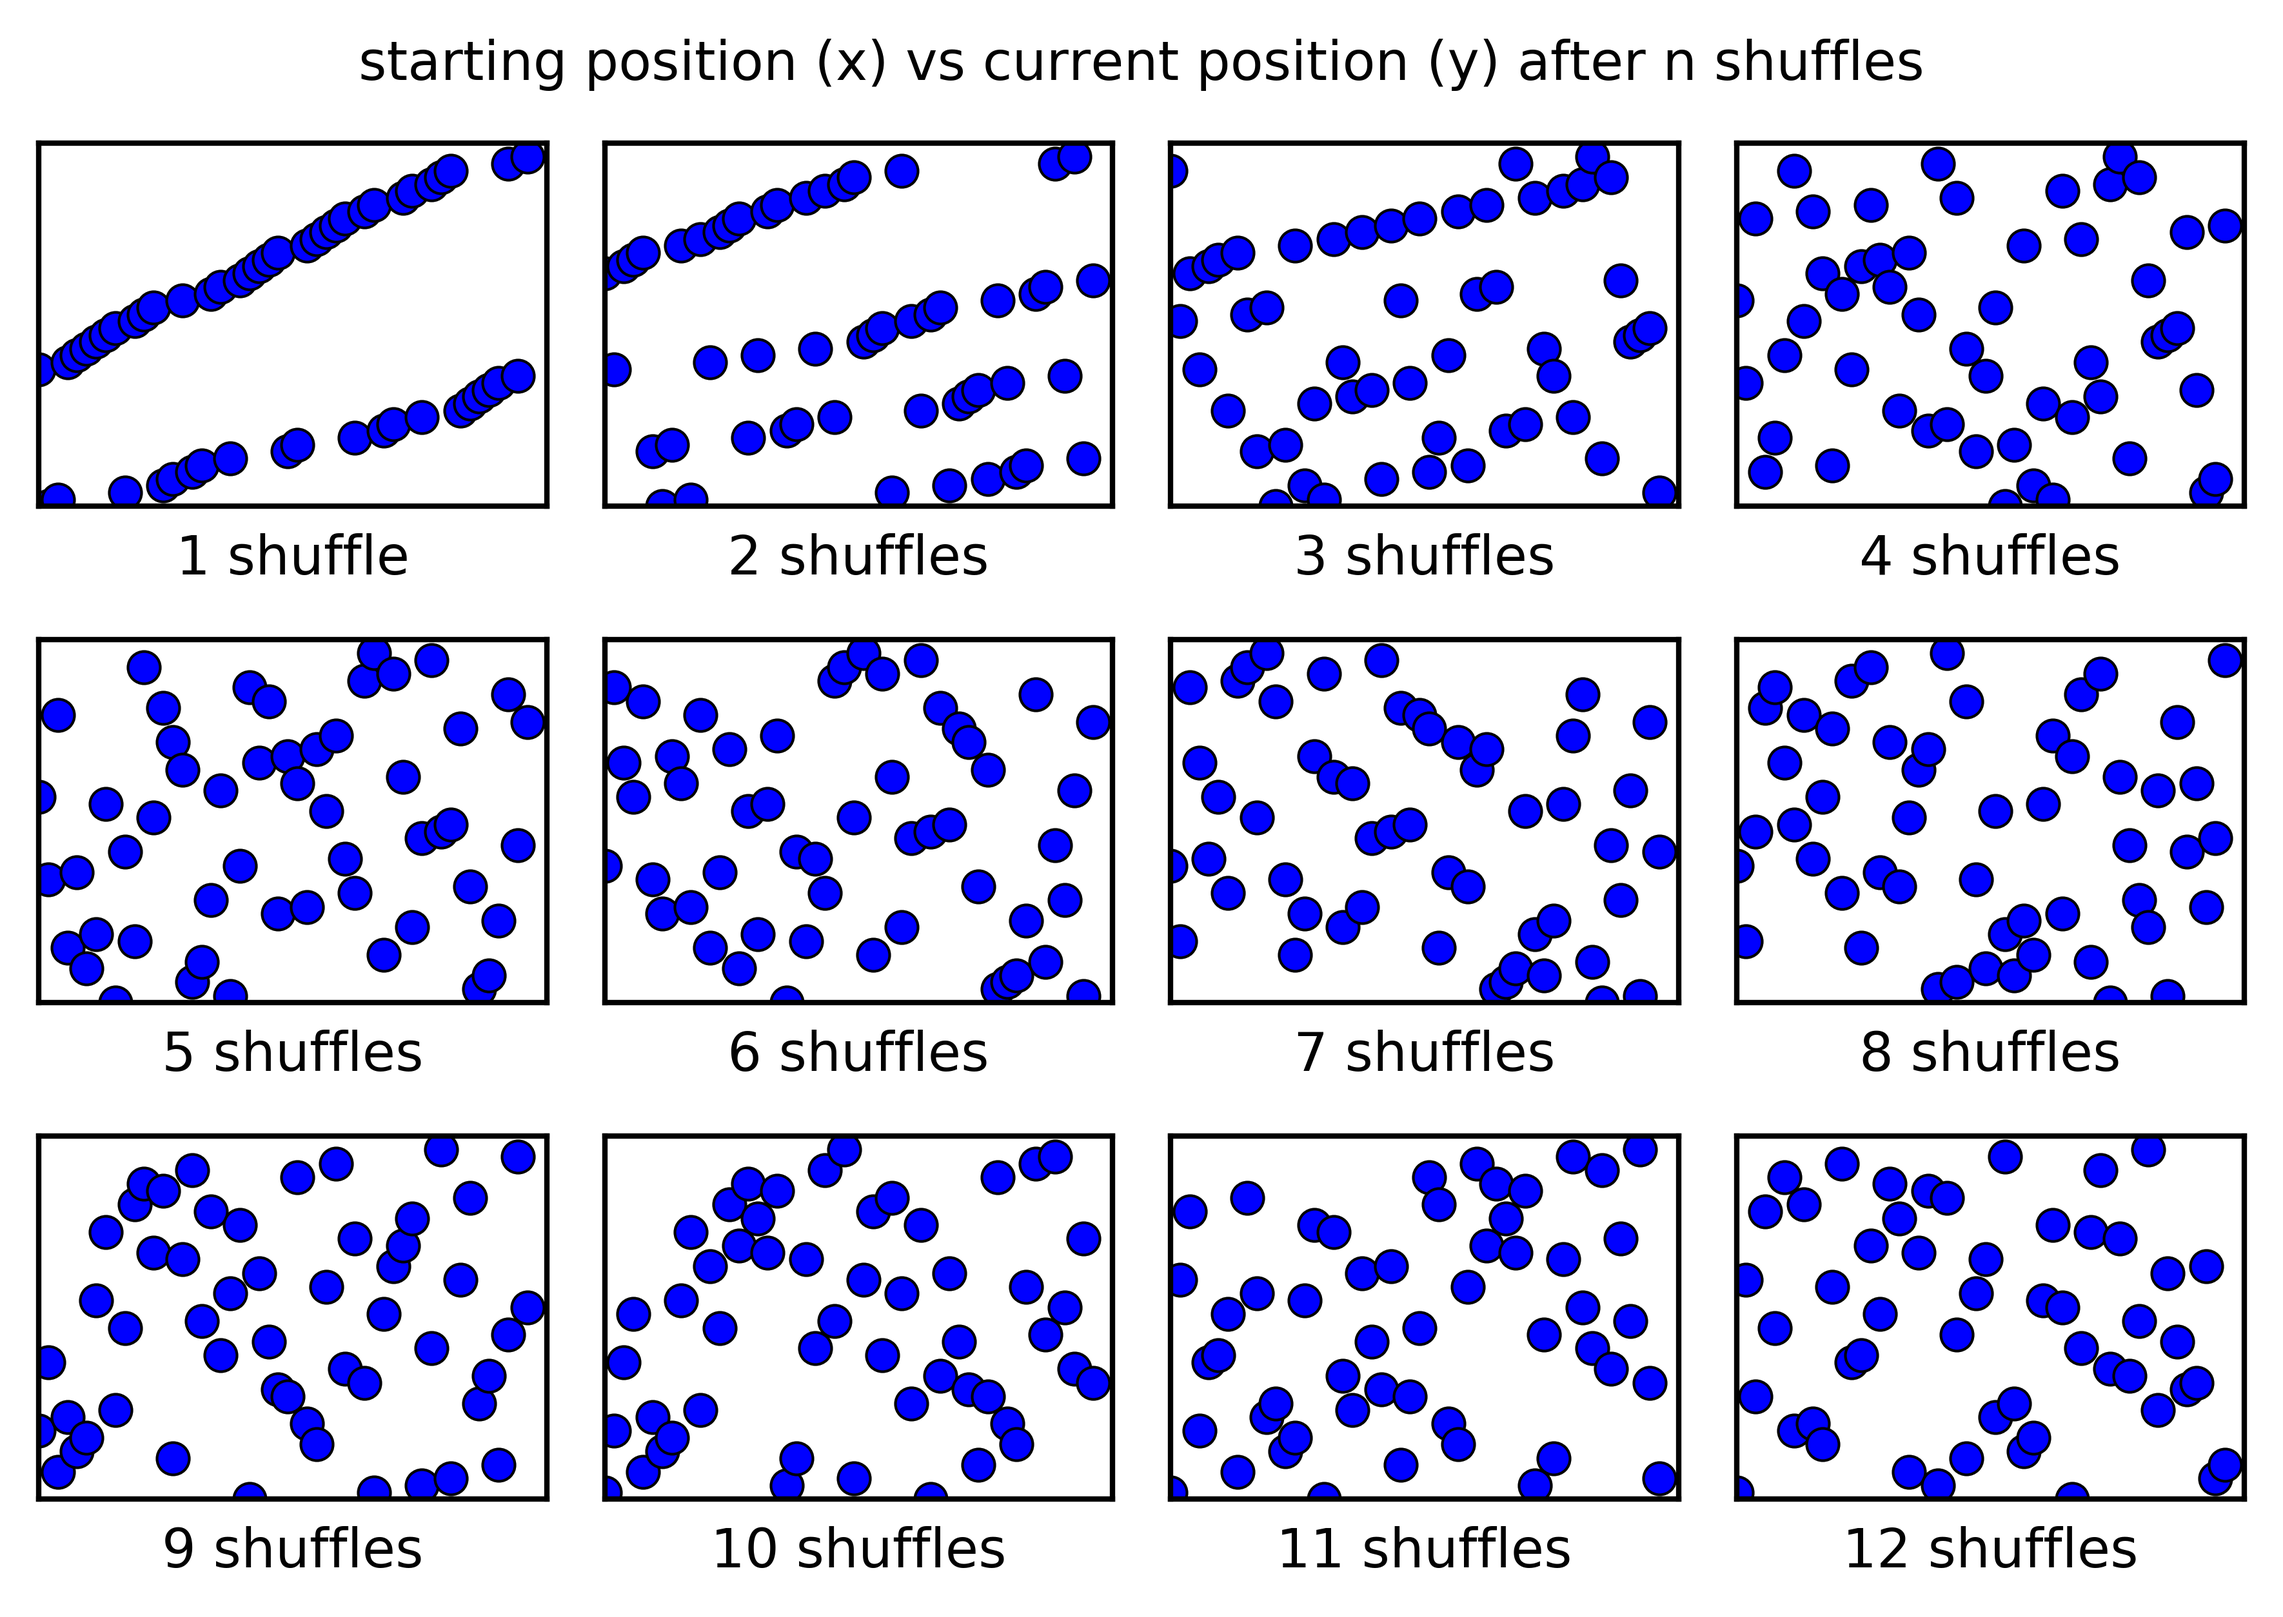
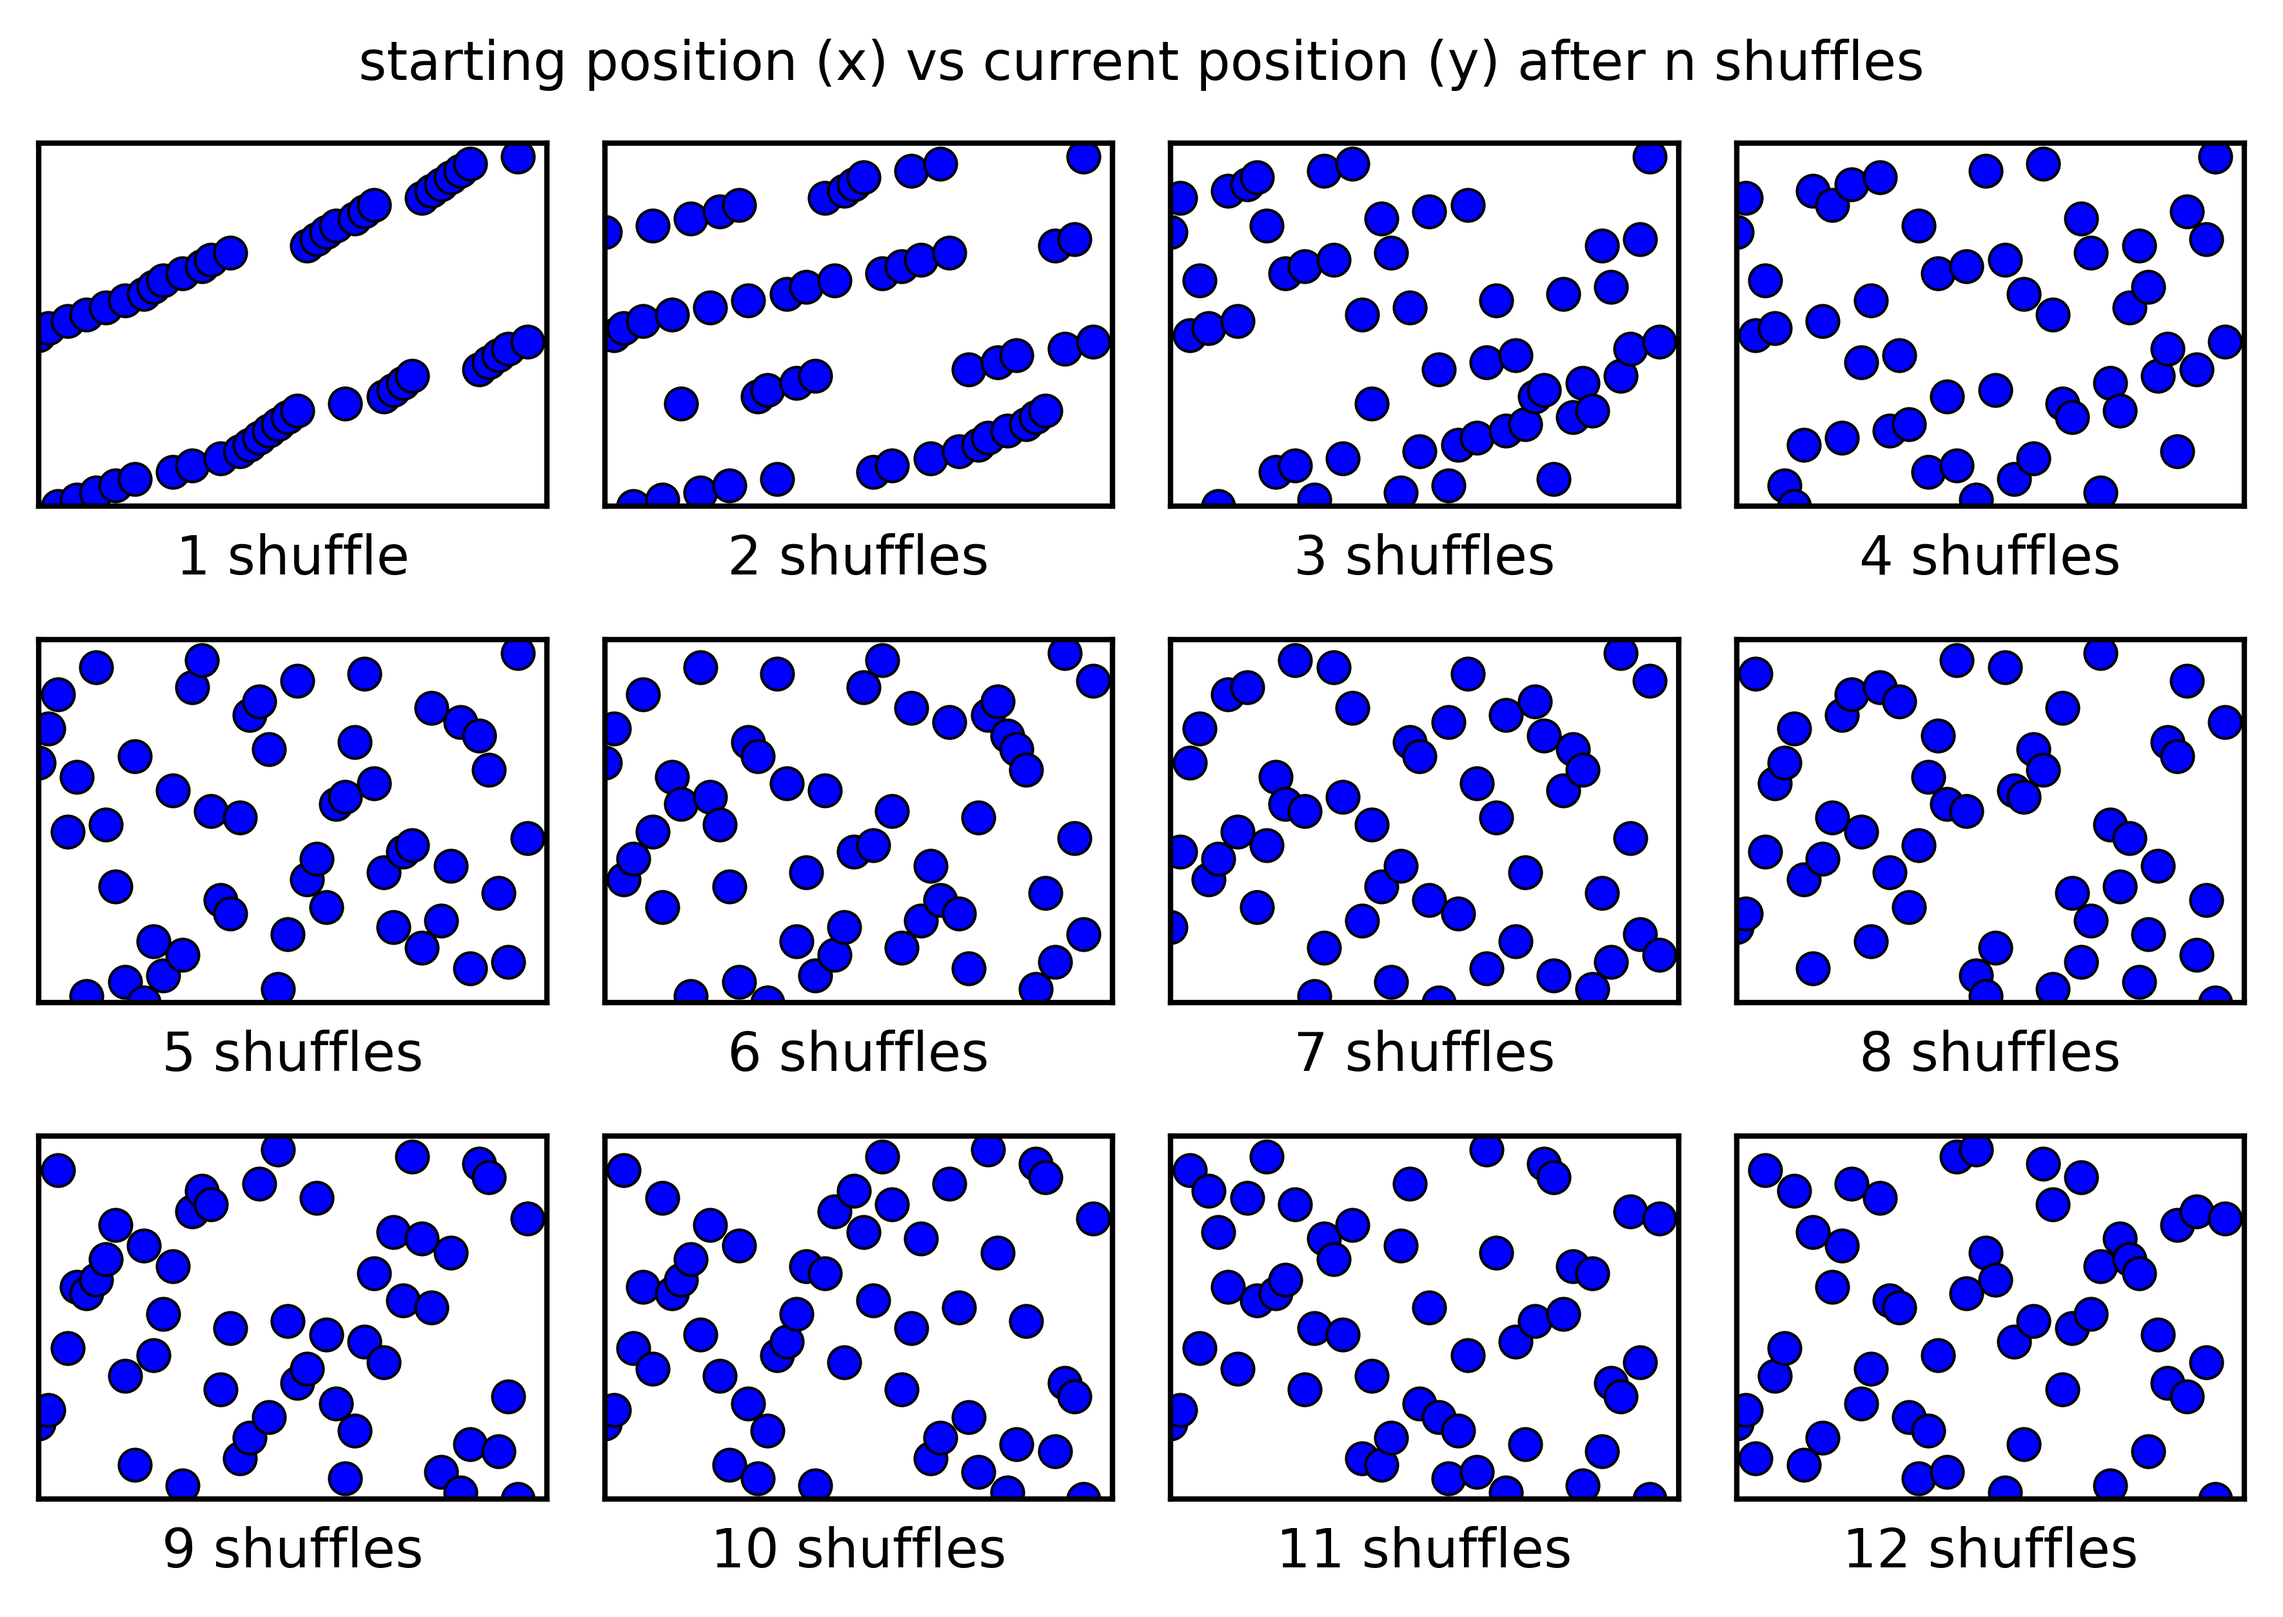
added some stuff

diff --git a/riffle.py b/riffle.py
@@ -2,37 +2,38 @@
 """
 This one is designed to work with numpy arrays only 
 """
-from random import random
 from scipy.stats import binom, itemfreq
-from numpy import array, diff, hstack, where
+import numpy as np
 
 def riffle(deck,n_times=1):
     
-    n_cards = len(deck)
+    n_cards = deck.size
     
     for j in range(n_times):
-        # Split the deck into two piles according to the binomial distribution
-        pos = binom(n_cards,.5).rvs(1)
-        heap = [deck[:pos].copy(), deck[pos:].copy()]
+        # Split the deck into two piles (left and right) according to the binomial distribution at position "pos"
+        pos = binom(n_cards,.5).rvs(1)[0]
+        left, right = deck[:pos].copy(), deck[pos:].copy()
         
-        # Initialize the deck
+        # Initialize the deck.  Cards will be placed back here.
         deck[:] = -1
 
+        # The probability of grabbing the card from left or right
+        # is proportional to the size of that pile
         for i in range(n_cards):
-            p = random()
-            thresh = float(len(heap[0])) / (len(heap[0]) + len(heap[1]))
+            p = np.random.rand()
+            thresh = left.size / (left.size + right.size)
             if p < thresh:
-                deck[i] = heap[0][0]
-                heap[0] = heap[0][1:]
+                deck[i] = left[0]
+                left = np.delete(left,0)
             else:
-                deck[i] = heap[1][0]
-                heap[1] = heap[1][1:]
+                deck[i] = right[0]
+                right = np.delete(right,0)
 
 #http://stackoverflow.com/questions/18683988/count-numbers-of-consecutive-1s-and-0s-in-a-vector
 
 def count_rises(deck):
-    rising_sequences = (diff(deck)==1).astype(int) 
-    w = hstack((0,rising_sequences,0))
-    return itemfreq(where(diff(w)==-1)[0] - where(diff(w)==1)[0])
+    rising_sequences = (np.diff(deck)==1).astype(int) 
+    w = np.hstack((0,rising_sequences,0))
+    return itemfreq(np.where(np.diff(w)==-1)[0] - np.where(np.diff(w)==1)[0])
     
     
